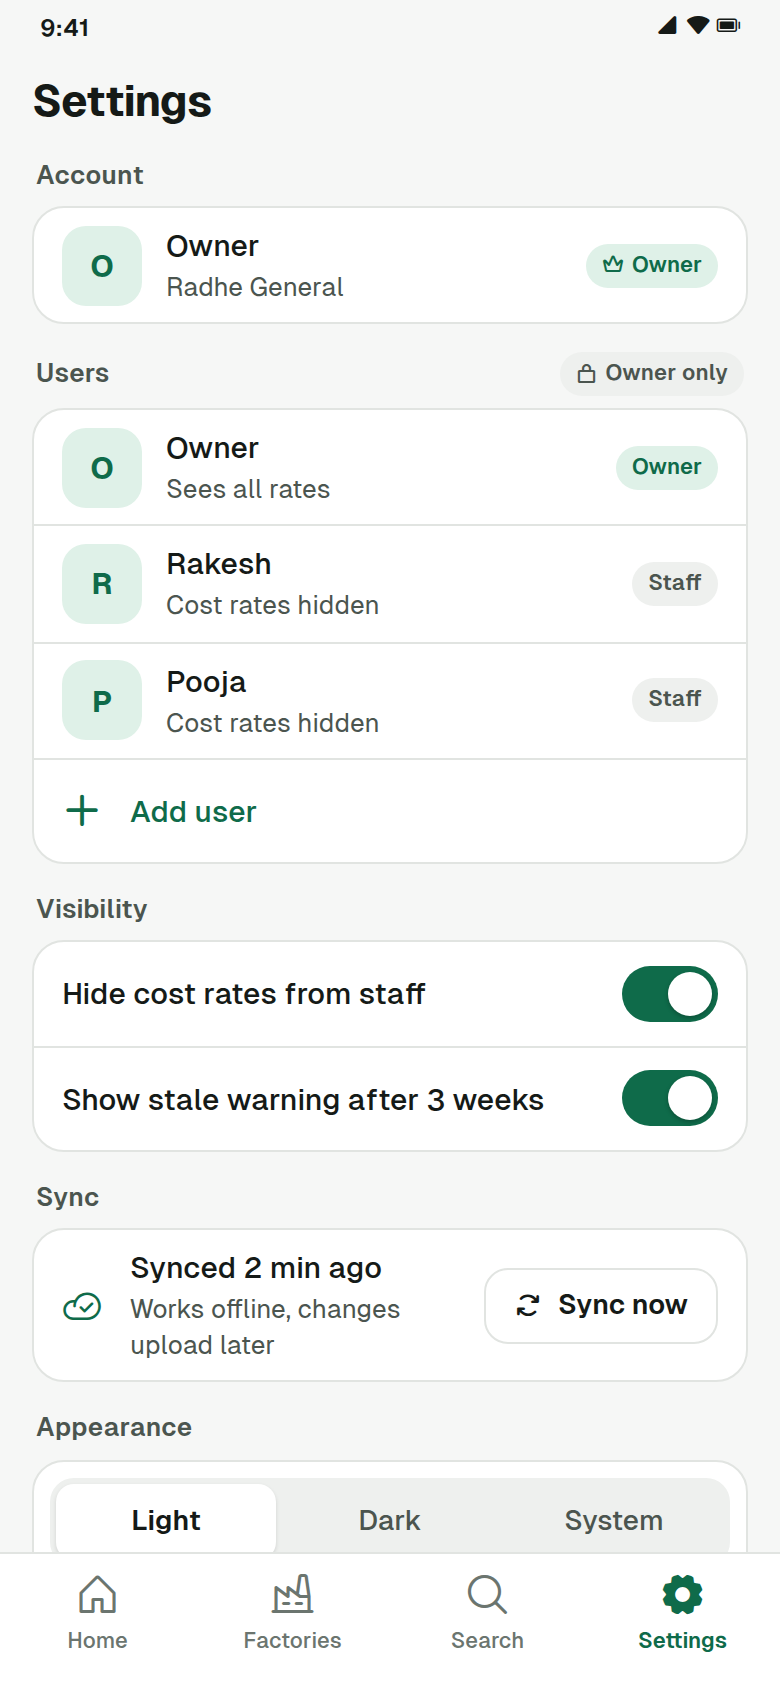
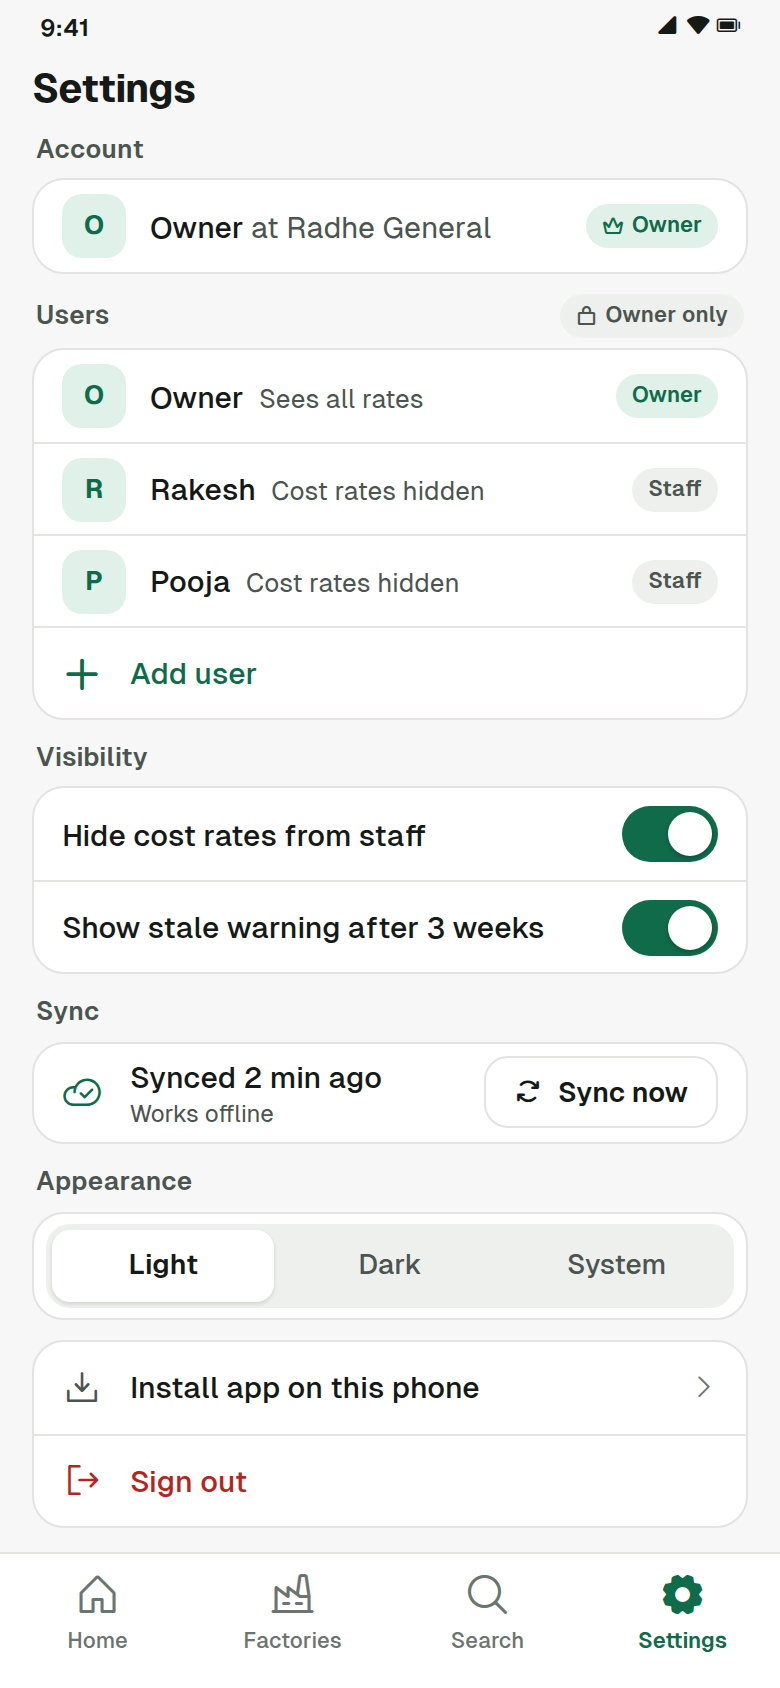
Complete mockup set: all phone and desktop screens rendered
Claude-Session: https://claude.ai/code/session_01NRWh5hF7LETji4kLUfCQru

diff --git a/mockups/screens/m-settings.html b/mockups/screens/m-settings.html
@@ -3,19 +3,19 @@
 <title>Settings</title>
 <link rel="stylesheet" href="../tokens.css"><script src="../data.js"></script>
 <style>
-.scroll{padding-top:0}
-.section-title{margin:14px 2px 6px}
-.row{min-height:52px;padding:8px 14px}
+.scroll{padding-top:0}.topbar{padding:2px 16px 8px}.topbar h1{font-size:20px}
+.section-title{margin:10px 2px 5px}.scroll{padding-bottom:0}
+.row{min-height:46px;padding:6px 14px}.row .avatar{width:32px;height:32px;font-size:13px;border-radius:10px}.row .s{margin-top:0;font-size:12px}
 .row i.l{font-size:20px;color:var(--text-2);width:22px;flex:none}
 .row .t{font-weight:500}
 .tg{width:48px;height:28px;border-radius:14px;background:var(--line);position:relative;flex:none}
 .tg::after{content:"";position:absolute;top:3px;left:3px;width:22px;height:22px;border-radius:50%;background:#fff;box-shadow:0 1px 2px rgba(0,0,0,.25)}
 .tg.on{background:var(--accent)}.tg.on::after{left:23px}
 .seg{display:grid;grid-template-columns:repeat(3,1fr);background:var(--surface-2);border-radius:var(--r-md);padding:3px;gap:2px;width:100%}
-.seg span{height:38px;display:grid;place-items:center;border-radius:9px;font-size:14px;font-weight:500;color:var(--text-2)}
+.seg span{height:36px;display:grid;place-items:center;border-radius:9px;font-size:14px;font-weight:500;color:var(--text-2)}
 .seg span.on{background:var(--surface);color:var(--text);font-weight:600;box-shadow:0 1px 2px rgba(0,0,0,.12)}
 .addrow{color:var(--accent)}.addrow .t,.addrow i.l{color:var(--accent)}
-.sm{height:38px;font-size:14px;padding:0 14px}
+.sm{height:36px;font-size:14px;padding:0 14px}
 .badge.owner{background:var(--accent-soft);color:var(--accent)}
 </style></head><body>
 <div class="app">
@@ -23,7 +23,7 @@
 <div class="topbar"><h1>Settings</h1></div>
 <div class="scroll">
   <div class="section-title" style="margin-top:0">Account</div>
-  <div class="list"><div class="row"><div class="avatar" id="av"></div><div class="grow"><div class="t" id="un"></div><div class="s">Radhe General</div></div><span class="badge ok"><i class="ph-bold ph-crown-simple"></i>Owner</span></div></div>
+  <div class="list"><div class="row"><div class="avatar" id="av"></div><div class="grow"><div class="t"><span id="un"></span> <span style="font-weight:400;color:var(--text-2)">at Radhe General</span></div></div><span class="badge ok"><i class="ph-bold ph-crown-simple"></i>Owner</span></div></div>
 
   <div class="section-title" style="display:flex;justify-content:space-between;align-items:center">Users <span class="badge"><i class="ph-bold ph-lock-simple"></i>Owner only</span></div>
   <div class="list" id="users"></div>
@@ -36,13 +36,13 @@
 
   <div class="section-title">Sync</div>
   <div class="list">
-    <div class="row"><i class="ph ph-cloud-check l" style="color:var(--accent)"></i><div class="grow"><div class="t">Synced 2 min ago</div><div class="s">Works offline, changes upload later</div></div><span class="btn sm"><i class="ph-bold ph-arrows-clockwise"></i>Sync now</span></div>
+    <div class="row"><i class="ph ph-cloud-check l" style="color:var(--accent)"></i><div class="grow"><div class="t">Synced 2 min ago</div><div class="s">Works offline</div></div><span class="btn sm"><i class="ph-bold ph-arrows-clockwise"></i>Sync now</span></div>
   </div>
 
   <div class="section-title">Appearance</div>
-  <div class="list"><div class="row" style="padding:8px"><div class="seg"><span class="on">Light</span><span>Dark</span><span>System</span></div></div></div>
+  <div class="list"><div class="row" style="padding:5px 6px;min-height:0"><div class="seg"><span class="on">Light</span><span>Dark</span><span>System</span></div></div></div>
 
-  <div class="list" style="margin-top:14px">
+  <div class="list" style="margin-top:10px">
     <div class="row"><i class="ph ph-download-simple l"></i><div class="grow t">Install app on this phone</div><i class="ph ph-caret-right" style="color:var(--text-3)"></i></div>
     <div class="row"><i class="ph ph-sign-out l" style="color:var(--danger)"></i><div class="grow t" style="color:var(--danger)">Sign out</div></div>
   </div>
@@ -55,6 +55,6 @@
 </div></div>
 <script>
 document.getElementById('av').textContent=DATA.user.name[0];document.getElementById('un').textContent=DATA.user.name;
-document.getElementById('users').innerHTML=DATA.users.map(u=>`<div class="row"><div class="avatar">${u.name[0]}</div><div class="grow"><div class="t">${u.name}</div><div class="s">${u.note||'Sees all rates'}</div></div><span class="badge ${u.role==='Owner'?'ok':''}">${u.role}</span></div>`).join('')+
+document.getElementById('users').innerHTML=DATA.users.map(u=>`<div class="row"><div class="avatar">${u.name[0]}</div><div class="grow"><div class="t">${u.name} <span style="font-weight:400;font-size:13px;color:var(--text-2);margin-left:4px">${u.note||'Sees all rates'}</span></div></div><span class="badge ${u.role==='Owner'?'ok':''}">${u.role}</span></div>`).join('')+
 `<div class="row addrow"><i class="ph-bold ph-plus l"></i><div class="grow t">Add user</div></div>`;
 </script></body></html>

diff --git a/mockups/screens/m-add-3-paste.html b/mockups/screens/m-add-3-paste.html
@@ -1,20 +1,20 @@
 <!doctype html><html lang="en"><head><meta charset="utf-8"><meta name="viewport" content="width=device-width,initial-scale=1"><title>Add pricelist paste</title><link rel="stylesheet" href="../tokens.css"><script src="../data.js"></script>
 <style>.steps{padding:0 16px 14px}.steps .lab{display:flex;justify-content:space-between;font-size:12px;font-weight:600;color:var(--text-2);margin-bottom:8px}.steps .bar{display:flex;gap:6px}.steps .bar i{flex:1;height:4px;border-radius:2px;background:var(--line)}.steps .bar i.on{background:var(--accent)}.h2{padding:0 16px 14px;font-size:24px;font-weight:700;letter-spacing:-.02em}.topbar h1{font-size:17px;text-align:center;flex:1}.topbar .sp{width:44px}.actionbar{padding-bottom:24px}.actionbar .btn{flex:1}
-.ta{margin:0 16px;background:var(--surface);border:1px solid var(--line);border-radius:var(--r-md);padding:12px 14px;font-family:var(--mono);font-size:12.5px;line-height:1.65;color:var(--text);height:168px;overflow:hidden;position:relative}
+.ta{margin:0 16px;background:var(--surface);border:1px solid var(--line);border-radius:var(--r-md);padding:12px 14px;font-family:var(--mono);font-size:12.5px;line-height:1.65;color:var(--text);height:192px;overflow:hidden;position:relative}
 .ta div{white-space:nowrap}
 .tah{display:flex;justify-content:space-between;align-items:center;margin:0 18px 8px;font-size:13px;font-weight:600;color:var(--text-2)}
 .tah a{color:var(--accent);display:flex;align-items:center;gap:4px}
 .sum{display:flex;align-items:center;gap:10px;margin:16px 16px 8px}
 .sum b{font-size:15px}.sum .badge{margin-left:auto}
 .pv{margin:0 16px;background:var(--surface);border:1px solid var(--line);border-radius:var(--r-lg);overflow:hidden}
-.hd,.pr{display:grid;grid-template-columns:1fr 66px 56px 56px 38px;gap:6px;align-items:center;padding:0 10px}
+.hd,.pr{display:grid;grid-template-columns:1fr 62px 46px 74px 28px;gap:4px;align-items:center;padding:0 10px}
 .hd{height:30px;font-size:11px;font-weight:600;color:var(--text-2);background:var(--surface-2)}
-.pr{min-height:44px;font-size:13px;border-top:1px solid var(--line)}
-.pr .c{overflow:hidden;white-space:nowrap;text-overflow:ellipsis;padding:6px 6px;border-radius:6px;border:1px dashed transparent}
-.pr .c.n{font-weight:600;padding-left:0}
+.pr{min-height:40px;font-size:12.5px;border-top:1px solid var(--line)}
+.pr .c{font-size:11.5px;overflow:hidden;white-space:nowrap;text-overflow:ellipsis;padding:6px 0;border-radius:6px;border:1px dashed transparent}
+.pr .c.n{white-space:normal;line-height:1.2;font-size:12.5px;font-weight:600;padding-left:0}
 .pr .r{font-family:var(--mono);font-weight:600;text-align:right}
 .pr.flag{background:var(--warn-soft)}
-.pr.flag .r{border:1px solid var(--warn);background:var(--surface);color:var(--warn);font-weight:600;font-family:var(--font);font-size:11.5px}
+.pr.flag .r{border:1px solid var(--warn);background:var(--surface);color:var(--warn);font-weight:600;font-family:var(--font);font-size:10.5px;padding:6px 1px;text-align:center}
 .pr .u{color:var(--text-2);font-size:12px}
 .warnline{display:flex;gap:6px;align-items:center;font-size:12px;color:var(--warn);font-weight:600;padding:6px 10px 8px;background:var(--warn-soft)}
 </style></head><body><div class="app">
@@ -42,6 +42,7 @@
 <div class="pr"><div class="c n">Onyx Honey</div><div class="c">800x800</div><div class="c">Glossy</div><div class="c r">44.00</div><div class="u">sqft</div></div>
 <div class="pr flag"><div class="c n">Slate Black</div><div class="c">600x1200</div><div class="c">Rustic</div><div class="c r">Check rate</div><div class="u">sqft</div></div>
 <div class="pr"><div class="c n">Terrazzo Sand</div><div class="c">600x600</div><div class="c">Matt</div><div class="c r">25.00</div><div class="u">sqft</div></div>
+<div class="pr"><div class="c n">Wood Walnut Plank</div><div class="c">200x1200</div><div class="c">Matt</div><div class="c r">29.50</div><div class="u">sqft</div></div>
 </div>
 <div style="flex:1"></div>
 <div class="actionbar"><a class="btn">Back</a><a class="btn btn-primary" style="flex:2">Review and save<i class="ph-bold ph-arrow-right"></i></a></div>

diff --git a/mockups/screens/m-add-4-confirm.html b/mockups/screens/m-add-4-confirm.html
@@ -1,6 +1,6 @@
 <!doctype html><html lang="en"><head><meta charset="utf-8"><meta name="viewport" content="width=device-width,initial-scale=1"><title>Add pricelist confirm</title><link rel="stylesheet" href="../tokens.css"><script src="../data.js"></script>
 <style>.steps{padding:0 16px 14px}.steps .lab{display:flex;justify-content:space-between;font-size:12px;font-weight:600;color:var(--text-2);margin-bottom:8px}.steps .bar{display:flex;gap:6px}.steps .bar i{flex:1;height:4px;border-radius:2px;background:var(--line)}.steps .bar i.on{background:var(--accent)}.h2{padding:0 16px 14px;font-size:24px;font-weight:700;letter-spacing:-.02em}.topbar h1{font-size:17px;text-align:center;flex:1}.topbar .sp{width:44px}.actionbar{padding-bottom:24px}.actionbar .btn{flex:1}
-.sumc{margin:0 16px 20px}
+.sumc{margin:0 0 20px}
 .sumc .row{min-height:52px}
 .sumc .k{font-size:13px;color:var(--text-2);width:86px;flex:none}
 .sumc .v{font-weight:600;font-size:15px;display:flex;align-items:center;gap:8px}
@@ -18,7 +18,7 @@
 <div class="list sumc">
 <div class="row"><span class="k">Factory</span><span class="v">Sunrise Ceramics</span></div>
 <div class="row"><span class="k">Source</span><span class="v"><i class="ph ph-clipboard-text" style="color:var(--text-2);font-size:18px"></i>Pasted text</span></div>
-<div class="row"><span class="k">Items</span><span class="v mono">84</span><span class="badge warn" style="margin-left:auto">1 to check</span></div>
+<div class="row"><span class="k">Items</span><span class="v mono">8</span><span class="badge warn" style="margin-left:auto">1 to check</span></div>
 </div>
 <div class="field"><label>Pricelist title</label><div class="input focus"><span class="tx">GVT Collection Oct 2026</span><span class="caret"></span></div></div>
 <div class="field"><label>Effective date</label><div class="input"><span class="tx">01 Oct 2026</span><i class="ph ph-calendar-blank"></i></div></div>

diff --git a/mockups/screens/m-compare.html b/mockups/screens/m-compare.html
@@ -44,5 +44,5 @@ document.getElementById('hd').textContent=r.length+' matches across '+new Set(r.
 document.getElementById('rows').innerHTML=r.map(x=>`<div class="row cr${x.best?' best':''}"><div class="grow">
 <div class="f">${x.factory}${x.best?'<span class="badge ok"><i class="ph-bold ph-check"></i>Lowest</span>':''}${x.stale?'<span class="badge warn"><i class="ph-bold ph-warning"></i>Old list</span>':''}</div>
 <div class="n">${x.item}</div><div class="u${x.stale?' old':''}">Updated ${x.updated}</div></div>
-<div class="rt"><div class="p mono">${fm(x.rate)}<small>/${x.unit}</small></div><div class="d mono">${x.best?'Lowest':'+'+(x.rate-low).toFixed(2)}</div></div></div>`).join('');
+<div class="rt"><div class="p mono">${fm(x.rate)}<small>/${x.unit}</small></div><div class="d mono">${x.best?'':'+'+(x.rate-low).toFixed(2)}</div></div></div>`).join('');
 </script></body></html>

diff --git a/mockups/screens/m-file-viewer.html b/mockups/screens/m-file-viewer.html
@@ -38,7 +38,6 @@ tr:nth-child(even) td{background:#fafafa}
 <table><thead><tr><th>Design</th><th>Finish</th><th class="r">Thk</th><th class="r">Pcs/Box</th><th class="r">Rate</th></tr></thead><tbody id="b1"></tbody></table>
 <div class="hd">FULL BODY VITRIFIED, 800 x 800 mm</div>
 <table><thead><tr><th>Design</th><th>Finish</th><th class="r">Thk</th><th class="r">Pcs/Box</th><th class="r">Rate</th></tr></thead><tbody id="b2"></tbody></table>
-<div class="ft">Terms: Rates ex-factory. GST extra as applicable. Rates subject to change without prior notice. Breakage claims within 7 days of delivery.</div>
 </div>
 <div class="zoom"><a><i class="ph ph-plus"></i></a><a><i class="ph ph-minus"></i></a><a><i class="ph ph-arrows-out"></i></a></div>
 <div class="pill"><i class="ph-bold ph-caret-left"></i>3 / 12<i class="ph-bold ph-caret-right"></i></div></div>

diff --git a/mockups/screens/m-add-1-factory.html b/mockups/screens/m-add-1-factory.html
@@ -3,7 +3,7 @@
 .radio{width:24px;height:24px;border-radius:50%;border:2px solid #aeb7b1;flex:none}
 .sel .radio{border-color:var(--accent);background:radial-gradient(var(--accent) 0 42%,transparent 46%)}
 .row.sel{background:var(--accent-soft)}
-.scroll{padding-top:0}
+.scroll{padding-top:0}.row.sel .avatar{background:var(--surface)}
 </style></head><body><div class="app">
 <div class="statusbar"><span>9:41</span><span style="display:flex;gap:6px;font-size:15px"><i class="ph-fill ph-cell-signal-full"></i><i class="ph-fill ph-wifi-high"></i><i class="ph-fill ph-battery-full"></i></span></div>
 <div class="topbar"><a class="iconbtn"><i class="ph ph-x"></i></a><h1>Add pricelist</h1><span class="sp"></span></div>

diff --git a/mockups/screens/d-compare.html b/mockups/screens/d-compare.html
@@ -18,7 +18,7 @@ tr:last-child td{border-bottom:0}.r{text-align:right}
 .fr{display:flex;gap:8px;align-items:center;margin-top:14px}
 .rh{display:flex;align-items:baseline;gap:12px;margin:20px 2px 10px}.rh b{font-size:16px}.rh span{font-size:13px;color:var(--text-2)}
 tr.best td{background:var(--accent-soft)}tr.best .rate{color:var(--accent)}
-tr.stale td{background:#fffaf0}
+tr.stale td{background:color-mix(in srgb,var(--warn-soft) 40%,var(--surface))}
 .note{display:flex;gap:8px;align-items:center;font-size:13px;color:var(--text-2);margin:12px 2px 0}.note i{font-size:18px;color:var(--accent)}
 </style></head><body>
 <div class="desk">
